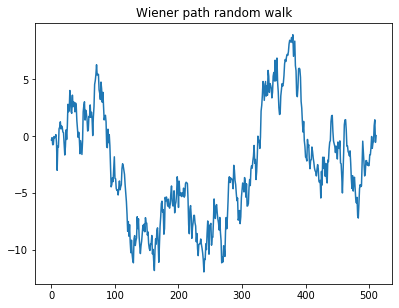
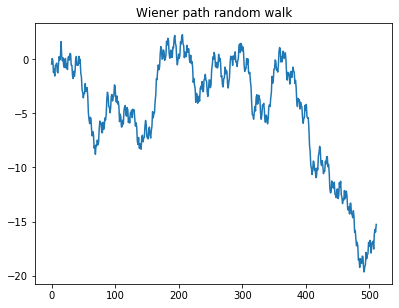
updates for new sobol version and multithreading

diff --git a/docs/wp/optionpricing/index.md b/docs/wp/optionpricing/index.md
@@ -158,10 +158,14 @@ Asian Black Scholes Price:    5.556009
 
 The first stage in predicting an option price is to generate a set of random numbers using either MC or QMC methods. In the below example we generate 512 pseudo-random and Sobol sequence numbers, with results plotted for comparison.
 
+Random numbers are generated using the Mersenne Twister <sup>[12]</sup> number generator which has 1 parameter, the number of steps.
+
+The Sobol sequence generator takes in 2 arguments, the index of the point (0 < i < 2<sup>31</sup> - 1) and the dimension of the Sobol sequence, i.e. the number of steps (0 < d < 1025).
+
 ```q
-q)/ Functions to generate n numbers (random or Sobol) in d dimensions
+/ Functions to generate n numbers (random or Sobol) in d dimensions
 q)rdmngen:{[n;d](d;n)#mtrand3 d*n}
-q)sobngen:{[n;d]sobolrand 0;flip sobolrand each n#d}
+q)sobngen:{[n;d]flip sobolrand[d]each 1+til n}
 q)data:(rdmngen;sobngen).\:nsteps,2
 q)subplot[data;("Random";"Sobol");2;2#`scatter]
 ```
@@ -185,7 +189,7 @@ In the example below we convert the uniform generated Sobol sequence to a Gaussi
 q)zsob:invcnorm each sob:last data
 q)subplot[(sob;zsob);("Sobol Uniform";"Sobol Gaussian");2;2#`scatter]
 ```
-<img src="img/sobgaussdist.png" style="height:300px">
+<img src="img/sobgaussdist.png">
 
 The differences between the Gaussian distributions produced for random and Sobol sequences are best demonstrated for a small number of timesteps, e.g. 64. Below we plot the 1D Gaussian distributions for both random and Sobol number generation across 64 timesteps.
 
@@ -196,7 +200,7 @@ q)/ Calculates Gaussian variates for 64 steps, in 2 dimensions
 q)dist:gausscnv[;64;2]each`rdm`sob
 q)subplot[dist;("Random";"Sobol");2;2#`hist]
 ```
-<img src="img/bin64.png" style="height:300px">
+<img src="img/bin64.png">
 
 As expected the Sobol sequence exhibits a Gaussian curve with much better statistical properties than the random number sequence <sup>[11]</sup>.
 
@@ -217,7 +221,7 @@ q)bbridge:{[n;dt]
 Wiener path:
 
 ```q
-q)wpath:{[n;d]$[(::)~d`bb;sums;d`bb]invcnorm$[d`sobol;sobolrand;mtrand3]n}
+q)wpath:{[u;d]$[(::)~d`bb;sums;d`bb]invcnorm u}
 ```
 
 An example of how the Brownian bridge is built is shown below up using `bbdemo`. The function outputs a table with n timesteps, in this case n = 8, showing the order in which steps are added to the path. Note that `i0` was added here, where we assume that it has a value equal to 0.
@@ -270,14 +274,17 @@ bidx ridx lidx lwt rwt sigma
 ```
 <img src="img/sigma.png">
 
-Once the Brownian bridge is intialized, it can be used to transform Gaussian variates into a Wiener path random walk. In the cell below, a Wiener path with 512 timesteps is constructed using a Sobol sequence (of length 512) and the Brownian bridge constructed previously. Note that the function `wpath` takes the following arguments:
-
-- `n` - Number of timesteps.
+Once the Brownian bridge has been intialized, it can be used to transform Gaussian variates into a Wiener path random walk. Below, a Wiener path with 512 timesteps is constructed using a Sobol sequence (of length 512) and the Brownian bridge constructed previously. Note that the function `wpath` takes the following arguments:
+- `u` - Sequence of generated numbers, Sobol or random.
 - `d` - Dictionary indicating whether to use standard discretization or Brownian bridge construction, and whether to use Sobol sequences (`1b`) or pseudo-random numbers (`0b`). If using a Brownian bridge, the initial Brownian bridge must be passed in, if not use `(::)`.
 
 ```q
-q)wpath[nsteps;`bb`sobol!(bbex;1b)
--0.3261343 -0.124455 -0.7468779 -0.7283514 -0.02784596 -0.1341059 -0.09226226 0.1405605 -0.5829703 -2.99527..
+q)d:`bb`sobol!(bbex;1b)
+q)show w:wpath[sobolrand[nsteps;2];d]
+-0.4450092 0.06385387 -0.1017726 -1.221271 -0.9099617 -1.552524 -0.5667251 -0.5347982 -0.3631799 -1.145434 ..
+q)plt[`:title]"Wiener path random walk";
+q)plt[`:plot]w;
+q)plt[`:show][];
 ```
 <img src="img/wiener.png">
 
@@ -285,16 +292,29 @@ q)wpath[nsteps;`bb`sobol!(bbex;1b)
 At this point, the Wiener path is converted into an asset price path using the function below.
 
 ```q
-q)spath:{[n;d;pd]pd[`s]*exp(wpath[n;d]*pd[`v]*sqrt dt)+(1+til n)*dr:(pd[`r]-pd[`q]+.5*v*v:pd`v)*dt:pd[`t]%n}
+spath:{[u;n;d;pd]pd[`s]*exp(wpath[u;d]*pd[`v]*sqrt dt)+(1+til n)*dr:(pd[`r]-pd[`q]+.5*v*v:pd`v)*dt:pd[`t]%n}
 ```
 
-Here we calculate six different asset price paths and overplot them for comparison. 512 timesteps are again used, with Sobol sequences and Brownian bridge approximation.
+Here we calculate six different asset price paths and overplot them for comparison. We start by generating the Sobol sequences for 8 paths with 512 timesteps, incrementing the Sobol index each time. Brownian bridge approximation is also used.
 
 ```q
+q)-1"Generated sequences: \n";
+q)show u:sobolrand[nsteps;]each 2+til 8;
 q)plt[`:title]"Asset Price Path";
-q)do[6;plt[`:plot]spath[nsteps;d;pd]];
+q)plt[`:plot] each spath[;nsteps;d;pd]each u;
 q)plt[`:show][];
+Generated sequences: 
+
+0.25   0.75   0.25   0.75   0.25   0.75   0.25   0.25   0.75   0.75   0.25   0.25   0.75   0.75   0.25   0...
+0.75   0.25   0.75   0.25   0.75   0.25   0.75   0.75   0.25   0.25   0.75   0.75   0.25   0.25   0.75   0...
+0.375  0.625  0.125  0.875  0.875  0.125  0.625  0.125  0.875  0.625  0.125  0.375  0.375  0.125  0.625  0...
+0.875  0.125  0.625  0.375  0.375  0.625  0.125  0.625  0.375  0.125  0.625  0.875  0.875  0.625  0.125  0...
+0.125  0.375  0.375  0.125  0.625  0.875  0.875  0.375  0.125  0.375  0.375  0.125  0.625  0.875  0.875  0...
+0.625  0.875  0.875  0.625  0.125  0.375  0.375  0.875  0.625  0.875  0.875  0.625  0.125  0.375  0.375  0...
+0.3125 0.3125 0.6875 0.5625 0.1875 0.0625 0.9375 0.5625 0.0625 0.8125 0.1875 0.6875 0.6875 0.6875 0.1875 0...
+0.8125 0.8125 0.1875 0.0625 0.6875 0.5625 0.4375 0.0625 0.5625 0.3125 0.6875 0.1875 0.1875 0.1875 0.6875 0...
 ```
+
 <img src="img/asset.png">
 
 #### 5. Convert into option price
@@ -311,14 +331,30 @@ Asian:
 q)mcAsiaCall:{[m;n;d;pd]exp[neg pd[`r]*pd`t]*avg 0|(last each prds each xexp[;1%n]spath[;d;pd]each m#n)-pd`k}
 ```
 
-Here we run the functions for 512 timesteps, 256 paths and 1 trial. Note that the index in `sobolrand` must be reset before each trial. This can be done using `sobolrand 0`.
+We also need a number generator function for l trials, m paths and n steps which can be used with the Sobol or random number generators.
+```q
+numgen:{[ng;l;m;n]ng@''$[ng~mtrand3;(l;first m)#n;(0N;m)#1+til l*m]}
+```
+
+Here we demonstrate how to run these functions below for 512 timesteps, 256 paths and 5 trials. Sequences are generated for Sobol sequences using the above numgen function which will produce a sequence for each path and each trial.
 
 ```q
+q)ntrials:5
 q)npaths:256
-q)sobolrand 0;-1"European Monte Carlo Price: ",string mcEuroCall[npaths;nsteps;`bb`sobol!(bbex;1b);pd];
-q)sobolrand 0;-1"Asian Monte Carlo Price:    ",string mcAsiaCall[npaths;nsteps;`bb`sobol!(bbex;1b);pd];
-European Monte Carlo Price: 10.2713
-Asian Monte Carlo Price:    5.367306
+q)-1"Generated sequences:\n";
+q)show 5#u:first numgen[sobolrand nsteps;ntrials;npaths;nsteps]
+q)-1"\nEuropean Monte Carlo Price: ",string mcEuroCall[u;nsteps;`bb`sobol!(bbex;1b);pd];
+q)-1"Asian Monte Carlo Price:    ",  string mcAsiaCall[u;nsteps;`bb`sobol!(bbex;1b);pd];
+Generated sequences:
+
+0.5   0.5   0.5   0.5   0.5   0.5   0.5   0.5   0.5   0.5   0.5   0.5   0.5   0.5   0.5   0.5   0.5   0.5  ..
+0.25  0.75  0.25  0.75  0.25  0.75  0.25  0.25  0.75  0.75  0.25  0.25  0.75  0.75  0.25  0.25  0.75  0.75 ..
+0.75  0.25  0.75  0.25  0.75  0.25  0.75  0.75  0.25  0.25  0.75  0.75  0.25  0.25  0.75  0.75  0.25  0.25 ..
+0.375 0.625 0.125 0.875 0.875 0.125 0.625 0.125 0.875 0.625 0.125 0.375 0.375 0.125 0.625 0.375 0.625 0.375..
+0.875 0.125 0.625 0.375 0.375 0.625 0.125 0.625 0.375 0.125 0.625 0.875 0.875 0.625 0.125 0.875 0.125 0.875..
+
+European Monte Carlo Price: 10.28224
+Asian Monte Carlo Price:    5.365942
 ```
 
 Remembering that the Black-Scholes option prices for the same number of timesteps were:
@@ -335,7 +371,9 @@ Asian Black Scholes Price:    5.556009
 In this section we deploy all of the aforementioned techniques and compare the results.
 
 !!!note
-	The below example can be run from the terminal using the following commands:
+	The below example can be run from the terminal across multiple threads using the following commands:
+
+	```$ q -s 8
 
 	```q)\l op.q```
 
@@ -392,20 +430,20 @@ The below functions calculate the RMSE between the Black Scholes and MC/QMC pric
 ```q
 q)/ Run all techniques for option pricing
 q)runall:{[bb;pd;l;n;m]
-   st:.z.p;e:run[`euro;bsEuroCall pd;bb;pd;l;n]each m;
+   st:.z.p;0N!i.rcol;e:i.run[`euro;bsEuroCall pd;bb;pd;l;n]each m;
    -1"European: time taken = ",string[.z.p-st],"\n";
-   st:.z.p;a:run[`asia;bsAsiaCall[n;pd];bb;pd;l;n]each m;
-   -1"Asian:    time taken = ",string .z.p-st;
+   st:.z.p;0N!i.rcol;a:i.run[`asia;bsAsiaCall[n;pd];bb;pd;l;n]each m;
+   -1"Asian: time taken = ",string .z.p-st;
    e,a}
-q)/ Show individual results tables
-q)rt:{[t;m]show delete mkt from select from t where mkt=m}
-q)/ Run Asian and European models for a single path
-q)run:{[mkt;bs;bb;pd;l;n;m]
+q)i.d:`bb`sobol!
+q)i.rcol:`mkt`npaths`rmse_bb_sobol`rmse_std_sobol`rmse_std_rdm`prx_bb_sobol`prx_std_sobol`prx_std_rdm`prx_bs
+q)i.rmse:{sqrt avg x*x-:y}
+q)i.run :{[mkt;bs;bb;pd;l;n;m]
    mc:$[mkt~`asia;mcAsiaCall;mcEuroCall][;n;;pd];
-   sobolrand 0;ea:i.rmse[bs]a:mc[;i.d(bb;1b)]each k:l#m;
-   sobolrand 0;eb:i.rmse[bs]mc[;i.d(::;1b)]each k;
-   ec:i.rmse[bs]mc[;i.d(bb;0b)]each k;
-   i.rcol!(mkt;m;ea;eb;ec;last a;bs)}
+   ea:i.rmse[bs]a:mc[;i.d(bb;1b)]each sob:numgen[sobolrand n;l;m;n];
+   eb:i.rmse[bs]b:mc[;i.d(::;1b)]each sob;
+   ec:i.rmse[bs]c:mc[;i.d(bb;0b)]each numgen[mtrand3;l;m;n];
+   i.rcol!0N!(mkt;m;ea;eb;ec;last a;last b;last c;bs)}
 ```
 
 ### Compare results
@@ -416,25 +454,25 @@ q)r:runall[bb;pd;l;n;m]
 q)select from r where mkt=`asia
 mkt  npaths rmse_bb_sobol rmse_std_sobol rmse_std_rdm prx_bb_sobol prx_std_sobol prx_std_rdm prx_bs  
 -----------------------------------------------------------------------------------------------------
-asia 8      1.68821       2.013819       3.147605     6.926262     5.342983      12.26076    5.551409
-asia 16     0.7919814     1.368621       1.711212     6.038532     6.48064       4.374625    5.551409
-asia 32     0.4884619     0.9335427      1.104675     6.008211     7.071975      6.579842    5.551409
-asia 64     0.2670961     0.5958815      0.9631084    5.47246      5.124664      6.130296    5.551409
-asia 128    0.1364009     0.3684939      0.5781844    5.699357     5.712784      5.205714    5.551409
-asia 256    0.0712398     0.2190598      0.4188585    5.637535     5.490097      5.577969    5.551409
-asia 512    0.04164343    0.162801       0.3104471    5.559133     5.282835      5.752811    5.551409
-asia 1024   0.02488236    0.1251515      0.1838573    5.576541     5.548824      5.957194    5.551409
+asia 8      1.044296      2.126291       2.367783     6.461112     5.220244      7.388339    5.551409
+asia 16     0.6879741     1.37292        1.377341     4.369775     6.440017      7.051311    5.551409
+asia 32     0.3959254     0.90278        1.2315       5.445392     6.276696      7.052442    5.551409
+asia 64     0.2453828     0.4006613      1.006066     5.641087     5.432976      5.68178     5.551409
+asia 128    0.1543742     0.3089822      0.5366735    5.473975     5.609705      5.874212    5.551409
+asia 256    0.0771557     0.2283313      0.6641969    5.590241     5.307291      5.522739    5.551409
+asia 512    0.03863931    0.1614974      0.3205372    5.576155     5.22571       5.24652     5.551409
+asia 1024   0.01975347    0.166499       0.2591332    5.544304     5.629553      5.718109    5.551409
 q)select from r where mkt=`euro
 mkt  npaths rmse_bb_sobol rmse_std_sobol rmse_std_rdm prx_bb_sobol prx_std_sobol prx_std_rdm prx_bs  
 -----------------------------------------------------------------------------------------------------
-euro 8      2.201757      3.4776         3.98521      12.33432     8.626886      13.09728    10.45058
-euro 16     1.246201      2.696852       3.699515     11.53213     13.80096      11.89048    10.45058
-euro 32     0.6918545     1.746251       3.556733     11.06003     11.68062      12.73627    10.45058
-euro 64     0.3797879     1.174968       1.870878     10.78884     9.449268      14.08304    10.45058
-euro 128    0.2065756     0.7232412      1.521816     10.63613     10.58083      8.916734    10.45058
-euro 256    0.1115481     0.426031       0.9262192    10.5514      10.21488      9.565821    10.45058
-euro 512    0.05989714    0.2955258      0.7497614    10.50504     10.43822      10.11798    10.45058
-euro 1024   0.03198992    0.2377595      0.5633116    10.4798      10.41221      10.14242    10.45058
+euro 8      2.218523      3.328543       5.209454     13.86836     4.627863      20.38541    10.45058
+euro 16     1.345787      2.442911       3.676035     9.206011     12.88644      12.20984    10.45058
+euro 32     0.6865024     1.623545       3.015535     9.879788     11.36182      5.68257     10.45058
+euro 64     0.3774031     0.9891046      1.967627     10.90519     11.03423      9.034532    10.45058
+euro 128    0.2089234     0.5977986      1.619673     10.34505     11.26803      7.360597    10.45058
+euro 256    0.117329      0.3648233      1.065048     10.52265     10.26664      8.453786    10.45058
+euro 512    0.05984563    0.3127605      0.7586819    10.50504     9.799289      11.4056     10.45058
+euro 1024   0.03176637    0.2853521      0.3566248    10.43112     10.29892      11.01441    10.45058
 ```
 
 #### Option Prices
@@ -466,7 +504,7 @@ q)prxerrplot[r;`logrsme]
 
 ## Conclusion
 
-In this paper we demonstrated that it is possible to calculate option prices using both Black-Scholes and Monte Carlo/Quasi-Monte Carlo methods in kdb+/q. The Monte Carlo/Quasi-Monte Carlo methods used deployed different implementations of both Wiener path approximation and random number generation.
+In this paper we demonstrated that it is possible to calculate option prices using both Black-Scholes and Monte Carlo/Quasi-Monte Carlo methods in kdb+/q. The Monte Carlo/Quasi-Monte Carlo methods deployed different implementations of both Wiener path approximation and random number generation.
 
 Looking at the results produced, it is clear that both the option price produced and the resulting RMSE/log RMSE converged fastest when compared with the Black-Scholes price for the Quasi-Monte Carlo approach, with Sobol sequence number generation and Brownian bridge construction.
 
@@ -496,4 +534,4 @@ I gratefully acknowledge Sergei Kucherenko for allowing us to create a version o
 9. Normal distribution. En.wikipedia.org. https://en.wikipedia.org/wiki/Normal_distribution. Published 2019. Accessed September 11, 2019.
 10. P. Glasserman 2003, 'Monte Carlo Methods in Financial Engineering', _Springer_.
 11. S. Kucherenko 2008. 'High Dimensional Sobol's Sequences And Their Application'. Available at http://www.broda.co.uk/doc/SobolSeq_report.pdf. Accessed September 23, 2019.
-
+12. Mersenne Twister. En.wikipedia.org. https://en.wikipedia.org/wiki/Mersenne_Twister. Published 2019. Accessed September 27, 2019.
